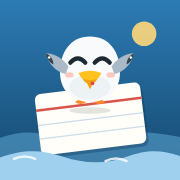
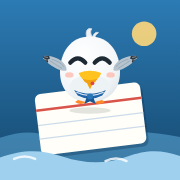
Add files via upload

diff --git a/04-figuren.js b/04-figuren.js
@@ -1,10 +1,15 @@
 // Vokabelkoje – figuren
 /* ---------- Motivation: Möwe, Wache, Serie ---------- */
 /* ---------- Möwe (flächiger Maskottchen-Stil, mit Aktionen) ---------- */
+let gullN=0;
+// Flügel: eine Form, die schwarze Spitze ist dieselbe Form, nur auf das äußere Ende zugeschnitten – so folgt sie immer der Flügelrichtung
+const GULL_WING='M0 0 C-9 4 -12 18 -9 31 C-8 37 -5 43 -1 47 C3 41 5.5 30 5.5 18 C5.5 9 4 3 0 0Z';
+function gullWing(tx,ty,rot,sc,cid){return `<g transform="translate(${tx} ${ty}) rotate(${rot}) scale(${sc})"><path d="${GULL_WING}" fill="#b4c3ce"/>
+ <path d="M-3.5 7 C-6.5 15 -6.5 23 -4.5 30 M1 9 C0.2 17 0 25 -1 32" stroke="#97a9b6" stroke-width="1.4" fill="none" stroke-linecap="round"/>
+ <path d="${GULL_WING}" fill="#2c3943" clip-path="url(#${cid})"/><path d="M-4 38 l1.6 5 M0.6 37.5 l.2 6" stroke="#fff" stroke-width="1.1" stroke-linecap="round" opacity=".6"/></g>`}
 function gullSVG(mood,size,act){size=size||88;act=act||'';const up=mood==='happy'||mood==='cheer';const closed=mood==='happy'||act==='sleep'||act==='fish';
- const wingUp=`<path d="M24 56 C14 54 6 46 3 34 C12 34 22 40 27 48Z" fill="#a9bac6"/><path d="M3 34 C4 40 7 44 11 46 C11 41 8 36 3 34Z" fill="#34434e"/><circle cx="6.5" cy="38.5" r="1.3" fill="#fff"/>`;
- const wingDown=`<path d="M26 38 C14 44 11 62 15 78 C22 80 28 74 30 64Z" fill="#a9bac6"/><path d="M15 78 C17 86 24 86 28 80 C24 80 19 79 15 78Z" fill="#34434e"/><circle cx="20" cy="81" r="1.3" fill="#fff"/>`;
- const wingSalute=`<path d="M26 54 C18 46 18 30 26 22 C30 28 31 40 30 50Z" fill="#a9bac6"/><path d="M26 22 C23 25 22 29 23 32 C26 30 27 26 26 22Z" fill="#34434e"/>`;
+ const id='gw'+(++gullN),cid=id+'c';
+ const wingUp=gullWing(25,52,118,.64,cid),wingDown=gullWing(25,41,13,1,cid),wingSalute=gullWing(26,55,172,.72,cid);
  const leftUp=up||act==='knot',rightUp=up||['spy','whistle','sword','anchor','knot'].includes(act);
  const rightWing=act==='salute'?wingSalute:rightUp?wingUp:wingDown;
  const look=act==='think'?-3.5:act==='sword'?2.5:0,lookX=act==='sword'?2:0;
@@ -25,16 +30,20 @@ function gullSVG(mood,size,act){size=size||88;act=act||'';const up=mood==='happy
   sleep:`<path d="M30 26 C32 12 56 6 68 16 C74 10 82 9 88 13 C82 15 77 20 72 27 Z" fill="#c8372d"/><path d="M30 26 C44 20 58 20 72 27" fill="none" stroke="#fff" stroke-width="4"/><circle cx="89" cy="13" r="4.5" fill="#fff"/><g class="notes"><text x="74" y="44" font-size="10" fill="#1f63a8" font-weight="800">z</text><text x="82" y="36" font-size="13" fill="#1f63a8" font-weight="800">Z</text></g>`,
   salute:''}[act]||'';
  return `<svg class="gull ${mood||'idle'}${act?' act-'+act:''}" viewBox="0 0 100 100" width="${size}" height="${size}" aria-hidden="true" overflow="visible">
+ <defs><clipPath id="${cid}"><path d="M-20 34 L-7 36.5 L-4 33.5 L-1 36.5 L2 33.5 L20 35 V70 H-20Z"/></clipPath>
+ <radialGradient id="${id}b" cx=".38" cy=".3" r=".8"><stop offset="0" stop-color="#ffffff"/><stop offset=".7" stop-color="#f3f6f8"/><stop offset="1" stop-color="#dde5ea"/></radialGradient></defs>
  <circle cx="50" cy="52" r="48" fill="var(--sea)"/>
  <ellipse cx="50" cy="95" rx="22" ry="3.5" fill="#1d2a33" opacity=".12"/>
  <path d="M34 86 l6 -4 l6 4 q-6 4 -12 0Z M54 86 l6 -4 l6 4 q-6 4 -12 0Z" fill="#ff8a2a"/>
  <rect x="38" y="78" width="4.5" height="8" rx="2" fill="#ff8a2a"/><rect x="57.5" y="78" width="4.5" height="8" rx="2" fill="#ff8a2a"/>
  <g class="body">
- <path d="M50 16 C71 16 82 33 82 54 C82 74 69 86 50 86 C31 86 18 74 18 54 C18 33 29 16 50 16Z" fill="#f8fafb"/>
+ <path d="M47 18 C44 10 48 6 52 8 C50 10 50.5 13 52.5 17 C54 12 57 11 59 12 C56 14 55 16 55 19Z" fill="#eef2f5" stroke="#d3dce2" stroke-width="1"/>
+ <path d="M50 16 C71 16 82 33 82 54 C82 74 69 86 50 86 C31 86 18 74 18 54 C18 33 29 16 50 16Z" fill="url(#${id}b)"/>
  <ellipse cx="50" cy="70" rx="22" ry="13" fill="#edf2f5"/>
  <g class="wl">${leftUp?wingUp:wingDown}</g><g class="wr"><g transform="matrix(-1 0 0 1 100 0)">${rightWing}</g></g>
  ${eyes}${brows}
  <path d="M38 55 Q50 50 62 55 Q60 61 54 64 L50 72 L46 64 Q40 61 38 55Z" fill="#ffc21f"/><path d="M42 61 Q50 64 58 61 Q56 65 53 66 L50 72 L47 66 Q44 65 42 61Z" fill="#f2a10f"/><circle cx="52.6" cy="66" r="2" fill="#e04848"/>
+ ${act==='sleep'?'':`<path d="M33 73 Q50 81 67 73 L63 79 Q50 86 37 79Z" fill="#1f63a8"/><path d="M35.5 75.5 Q50 82.5 64.5 75.5" fill="none" stroke="#fff" stroke-width="1.3" opacity=".85"/><path d="M47 79 L44 88 L50 85 L56 88 L53 79Z" fill="#1a5590"/><circle cx="50" cy="80" r="3.2" fill="#2a74b8"/>`}
  ${up?'<ellipse cx="28" cy="57" rx="4.5" ry="2.8" fill="#ffb7a8" opacity=".75"/><ellipse cx="72" cy="57" rx="4.5" ry="2.8" fill="#ffb7a8" opacity=".75"/>':''}
  ${extra}
  </g></svg>`}

diff --git a/sw.js b/sw.js
@@ -1,5 +1,5 @@
 // Vokabelkoje – Offline-Cache. Bei Änderungen an der App die Versionsnummer erhöhen.
-const CACHE = 'vokabelkoje-v33';
+const CACHE = 'vokabelkoje-v34';
 const CORE = ['./', './index.html', './style.css', './manifest.webmanifest', './icon.svg', './icon-192.png', './icon-512.png', './icon-maskable-512.png', './apple-touch-icon.png', './01-grundlagen.js', './02-oberflaeche.js', './03-ki.js', './04-figuren.js', './05-profile.js', './06-startseite.js', './07-lernen.js', './08-ki-werkzeuge.js', './09-niveau.js', './10-lernpfad.js', './11-uebungen.js', './12-sicherung.js', './13-aktionen.js'];
 
 self.addEventListener('install', e => {
